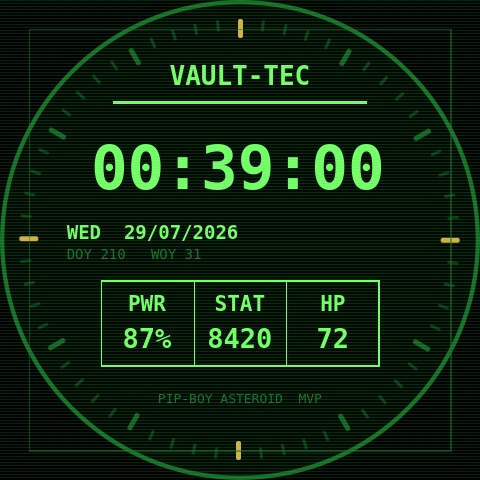
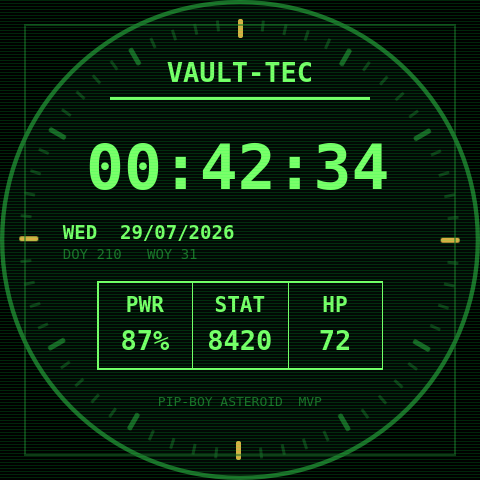
Increase safe layer to ninety percent

diff --git a/catfish-pipboy/usr/share/asteroid-launcher/watchfaces/catfish-pipboy.qml b/catfish-pipboy/usr/share/asteroid-launcher/watchfaces/catfish-pipboy.qml
@@ -80,7 +80,7 @@ Item {
             id: safe
 
             anchors.centerIn: parent
-            width: parent.width * 0.88
+            width: parent.width * 0.90
             height: width
 
             Rectangle {

diff --git a/qml/Main.qml b/qml/Main.qml
@@ -80,7 +80,7 @@ Item {
             id: safe
 
             anchors.centerIn: parent
-            width: parent.width * 0.88
+            width: parent.width * 0.90
             height: width
 
             Rectangle {
